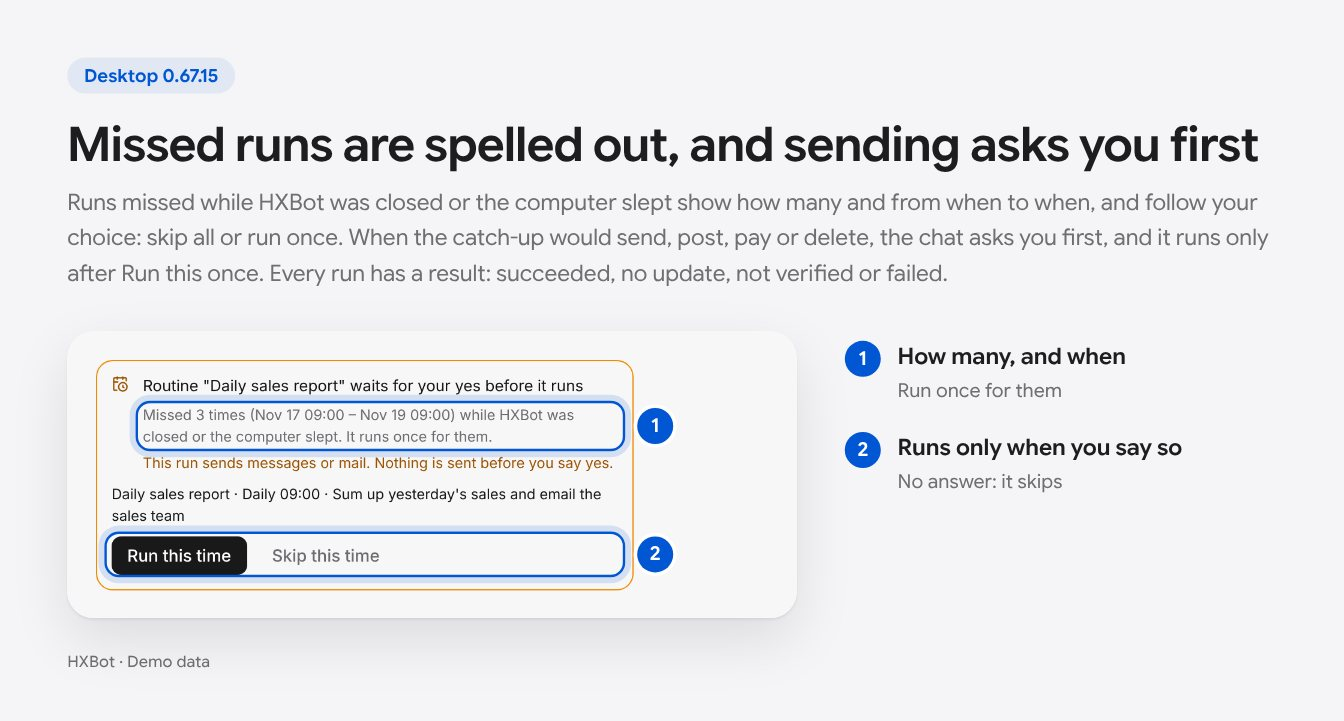
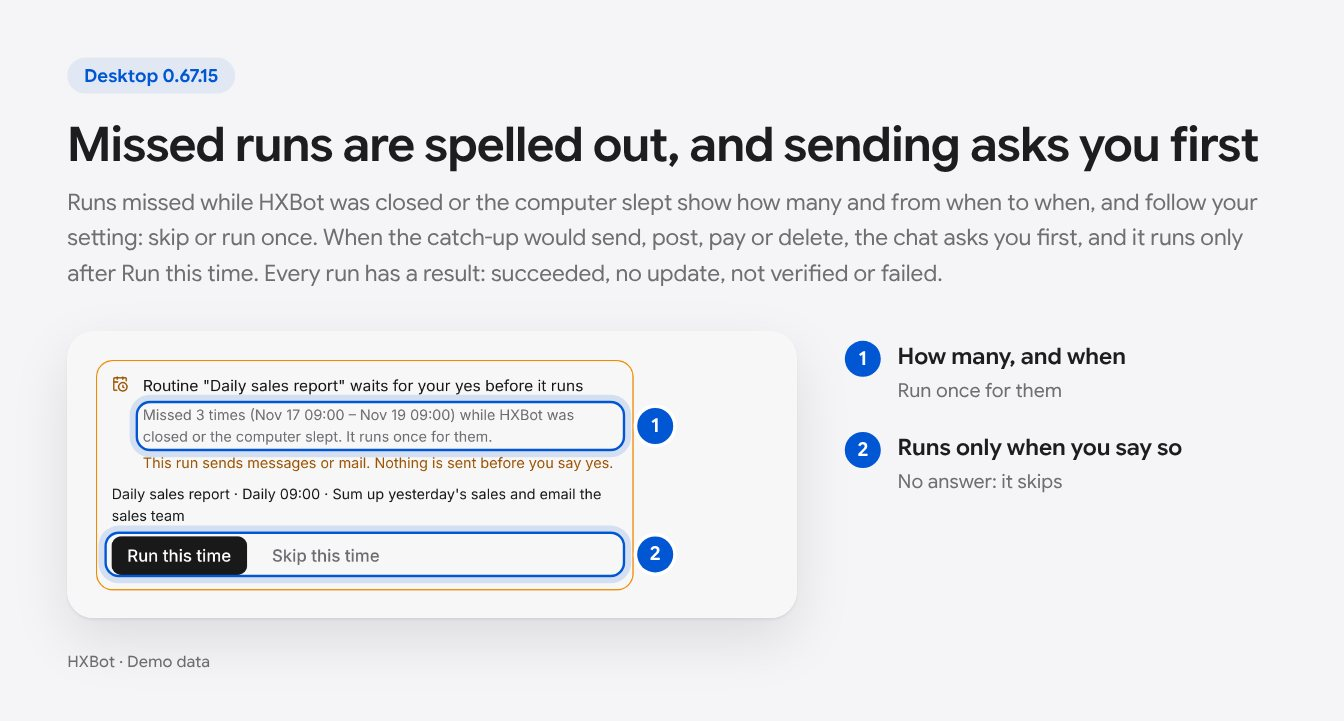
docs: routine confirm picture and what's new use the button names of the app
Claude-Session: https://claude.ai/code/session_01SSfegZhWxwREh3EkEPgvTa

Changed region(s): [[0.0312, 0.3051, 0.9375, 0.3967]]

diff --git a/hx/server/portal/pages/whats-new.en.html b/hx/server/portal/pages/whats-new.en.html
@@ -176,16 +176,16 @@
 <p>This page lists the new features and highlights of HXBot by version, newest first. Each version has all the features of the versions before it. The title of each part names the app that changed and its version number: the desktop app and the web app share one version number, and the mobile app has its own. After each highlight, the apps that have it are named. To use a new feature, update the app to that version: from desktop 0.67.13 on, HXBot downloads and installs a new version in the background also while you use it, then saves and restarts into it once the agents are idle, or after 10 minutes at most; there is nothing to click (0.67.10 to 0.67.12 install a version that they find as they open). The data in the screenshots is demo data.</p>
 <h2 id="desktop-0-67-15">Desktop 0.67.15 · Mobile 1.5.1: a start film, and more reliable routines and workflows<a class="anchor" href="#desktop-0-67-15" aria-hidden="true" tabindex="-1">#</a></h2>
 <p>November 20, 2026 · Desktop and web 0.67.15 · Mobile 1.5.1 (Android; no iOS update this time, it stays 1.5.0)</p>
-<aside class="note"><p class="note__t"><strong>Highlights</strong></p><ol><li><span class="tag tag--new">NEW</span> A start film: the giraffe comes with balloons and becomes the HXBot logo. It plays on the first start and the first start after each update, in the film for the window's shape, and never cuts the logo or the name. <span class="on">Desktop, web, Android</span></li><li>Routines have a time zone and show their next three runs (local time and UTC, with the daylight saving change); missed runs show how many and when, and follow your choice: skip all or run once. <span class="on">Desktop</span></li><li>A catch-up that sends, posts, pays or deletes asks you first; every run has a result: succeeded, no update, not verified or failed. <span class="on">Desktop</span></li><li>More capable workflows: app skill, Computer Use and team steps; save a turn of a chat as a workflow; a failed run continues from the failed step, and external actions already done are not done again. <span class="on">Desktop</span></li><li>A deleted agent no longer comes back, and it leaves the web client and phones at once. <span class="on">Desktop, web, mobile</span></li></ol></aside>
+<aside class="note"><p class="note__t"><strong>Highlights</strong></p><ol><li><span class="tag tag--new">NEW</span> A start film: the giraffe comes with balloons and becomes the HXBot logo. It plays on the first start and the first start after each update, in the film for the window's shape, and never cuts the logo or the name. <span class="on">Desktop, web, Android</span></li><li>Routines have a time zone and show their next three runs (local time and UTC, with the daylight saving change); missed runs show how many and when, and follow your setting: skip them or run once. <span class="on">Desktop</span></li><li>A catch-up that sends, posts, pays or deletes asks you first; every run has a result: succeeded, no update, not verified or failed. <span class="on">Desktop</span></li><li>More capable workflows: app skill, Computer Use and team steps; save a turn of a chat as a workflow; a failed run continues from the failed step, and external actions already done are not done again. <span class="on">Desktop</span></li><li>A deleted agent no longer comes back, and it leaves the web client and phones at once. <span class="on">Desktop, web, mobile</span></li></ol></aside>
 <h3 id="desktop-0-67-15-boot">The start film<a class="anchor" href="#desktop-0-67-15-boot" aria-hidden="true" tabindex="-1">#</a></h3>
 <figure class="shot"><a href="/hx-portal/whats-new/boot-film.en.jpg" target="_blank" rel="noopener"><img src="/hx-portal/whats-new/boot-film.en.jpg" alt="The start film opens on the giraffe and ends on the HXBot logo; turn on its sound in Settings › General › Appearance" width="1344" height="844" loading="lazy" decoding="async"></a></figure>
 <ul><li><strong>When it plays:</strong> the first time you open HXBot on a computer, and the first time after each update, “The giraffe and the balloons” plays (about 16 s), becomes the HXBot logo and fades into HXBot. Other starts show the logo for 0.6 s.</li><li><strong>The logo is never cut:</strong> the 16:9, 4:3 or 9:16 film fills the window; where the window cuts it, only white goes, never the logo or the name “HXBot”.</li><li><strong>Skip it:</strong> after 1 s, a click or any key goes in at once; a key in the first second does not skip it, and does not reach the screen behind it. On a phone, tap or press Android's back button.</li><li><strong>It stays out of the way:</strong> with reduced motion, a damaged film, or a film that has not started in 1 s, only the logo shows; routines due while it plays start on time. The sound is off; turn it on in Settings › General › Appearance (on Android, Settings › Appearance).</li><li><strong>The web client and bot.hxallai.com:</strong> a browser plays it at most once in 30 days (both pages share the record, which stays in this browser and is not sent), then it fades into the page; it is muted, and does not play with a data saver, 2G, reduced motion or in a background tab. It comes over the network, so its first frame shows while it loads, for 3 s at most; a slow film can be skipped after 2 s.</li></ul>
 <h3 id="desktop-0-67-15-routines">Routines: time zone, next three runs, missed runs spelled out<a class="anchor" href="#desktop-0-67-15-routines" aria-hidden="true" tabindex="-1">#</a></h3>
 <figure class="shot"><a href="/hx-portal/whats-new/routine-zone.en.jpg" target="_blank" rel="noopener"><img src="/hx-portal/whats-new/routine-zone.en.jpg" alt="A routine needs a time zone; below it, the next three runs, with the daylight saving offsets" width="1344" height="722" loading="lazy" decoding="async"></a></figure>
-<ul><li><strong>A time zone is required:</strong> a new routine needs a time zone, and the one you registered comes first; an agent that makes a routine asks you once too. Routines from before the update ask once to confirm their time zone, and run in their old one until then.</li><li><strong>The next three runs:</strong> the editor and the chat card show the next three runs in local time, UTC and offset. A time that a clock change skips runs at the first minute after the gap; a repeated time runs once.</li><li><strong>Missed runs:</strong> runs missed while HXBot was closed or the computer slept show in the list and the history: how many, from when to when, and what happened, by your choice: skip all or run once.</li><li><strong>Spread out:</strong> routines due in the same minute start a few seconds apart, in order. A trigger that comes while the last run still runs is recorded as skipped, with the reason; after a pause, the editor shows that no trigger is queued.</li></ul>
+<ul><li><strong>A time zone is required:</strong> a new routine needs a time zone, and the one you registered comes first; an agent that makes a routine asks you once too. Routines from before the update ask once to confirm their time zone, and run in their old one until then.</li><li><strong>The next three runs:</strong> the editor and the chat card show the next three runs in local time, UTC and offset. A time that a clock change skips runs at the first minute after the gap; a repeated time runs once.</li><li><strong>Missed runs:</strong> runs missed while HXBot was closed or the computer slept show in the list and the history: how many, from when to when, and what happened, by your setting for “If HXBot was closed at the scheduled time”: skip them or run once.</li><li><strong>Spread out:</strong> routines due in the same minute start a few seconds apart, in order. A trigger that comes while the last run still runs is recorded as skipped, with the reason; after a pause, the editor shows that no trigger is queued.</li></ul>
 <h3 id="desktop-0-67-15-confirm">Sending asks first, and every run has a result<a class="anchor" href="#desktop-0-67-15-confirm" aria-hidden="true" tabindex="-1">#</a></h3>
-<figure class="shot"><a href="/hx-portal/whats-new/routine-confirm.en.jpg" target="_blank" rel="noopener"><img src="/hx-portal/whats-new/routine-confirm.en.jpg" alt="A catch-up would send an email: it asks first, and runs only after “Run this once”" width="1344" height="721" loading="lazy" decoding="async"></a></figure>
-<ul><li><strong>It asks first:</strong> when a catch-up would send, post, pay or delete, the chat asks you; it runs only after Run this once, and Skip this time or no answer before the next run skips it. A routine whose instruction does such things (routines from before the update are marked by themselves) can ask before each run.</li><li><strong>Results:</strong> each run says succeeded, no update, not verified or failed. A result that is not verified (for example, a file it said it saved is not there) shows in the chat and as a notification; no update does not disturb you.</li></ul>
+<figure class="shot"><a href="/hx-portal/whats-new/routine-confirm.en.jpg" target="_blank" rel="noopener"><img src="/hx-portal/whats-new/routine-confirm.en.jpg" alt="A catch-up would send an email: it asks first, and runs only after “Run this time”" width="1344" height="721" loading="lazy" decoding="async"></a></figure>
+<ul><li><strong>It asks first:</strong> when a catch-up would send, post, pay or delete, the chat asks you; it runs only after Run this time, and Skip this time or no answer before the next run skips it. A routine whose instruction does such things (routines from before the update are marked by themselves) can ask before each run.</li><li><strong>Results:</strong> each run says succeeded, no update, not verified or failed. A result that is not verified (for example, a file it said it saved is not there) shows in the chat and as a notification; no update does not disturb you.</li></ul>
 <h3 id="desktop-0-67-15-workflows">Workflows<a class="anchor" href="#desktop-0-67-15-workflows" aria-hidden="true" tabindex="-1">#</a></h3>
 <ul><li><strong>Three new steps:</strong> app skill, Computer Use and team task. An agent step can use the automatic model, chosen by the work of that step.</li><li><strong>Save as a workflow:</strong> the Computer Use calls, app skills and team tasks of a turn become a workflow with Save as workflow; a routine can run a prompt, a workflow, an app skill or a team task.</li><li><strong>Continue from the failed step:</strong> external actions that are already done (sending, uploading and so on) are not done again; the conditions are checked again first. A step whose result is unknown after a restart runs again only when you choose Continue.</li><li><strong>Run limits:</strong> 10 loops, 100 steps and 600 s per loop; change them in the Workflows menu › Run limits. At a limit the run stops and says why.</li><li><strong>Teams learn your choices:</strong> Continue at the time reminder doubles that team's time, and Wrap up shortens it for the same kind of work; Computer Use learns how long to wait after you stop. Reset both in Settings › Computer Use. When the team judge's model passed the labeled set and the judge agreed with you 5 times in a row, you can let it decide such cases from the team card; the 3rd time for the same reason always asks you.</li></ul>
 <h3 id="desktop-0-67-15-fixes">Fixed<a class="anchor" href="#desktop-0-67-15-fixes" aria-hidden="true" tabindex="-1">#</a></h3>

diff --git a/hx/server/portal/pages/whats-new.html b/hx/server/portal/pages/whats-new.html
@@ -185,7 +185,7 @@
 <figure class="shot"><a href="/hx-portal/whats-new/routine-zone.zh.jpg" target="_blank" rel="noopener"><img src="/hx-portal/whats-new/routine-zone.zh.jpg" alt="定时任务要选时区，下面列出接下来三次，夏令时前后的偏移写明白" width="1344" height="635" loading="lazy" decoding="async"></a></figure>
 <ul><li><strong>时区必选：</strong>新建定时任务时必须选时区，你登记的时区排在第一个；助手帮你建时也会先问一次。升级前建的定时任务会请你确认一次时区，确认前照旧按原来的时区运行。</li><li><strong>接下来三次：</strong>编辑器和对话卡片里列出接下来三次运行：本地时间、UTC 和偏移。夏令时拨快跳过的时刻顺延到缺口后的第一分钟；拨慢重复的时刻只跑第一次。</li><li><strong>错过的写明白：</strong>HXBot 关着或电脑睡眠时错过的，列表和历史里写明错过几次、从几点到几点，按“到点时 HXBot 已关闭时”的设置跳过或补跑一次。</li><li><strong>错峰：</strong>同一分钟到点的几个定时任务错开几秒依次开始，顺序不变。上一轮还在跑时，这一轮记“已跳过”并写明原因；暂停后编辑器里写明“没有排队的触发”。</li></ul>
 <h3 id="desktop-0-67-15-confirm">要发送的先问你，每次运行都有结果<a class="anchor" href="#desktop-0-67-15-confirm" aria-hidden="true" tabindex="-1">#</a></h3>
-<figure class="shot"><a href="/hx-portal/whats-new/routine-confirm.zh.jpg" target="_blank" rel="noopener"><img src="/hx-portal/whats-new/routine-confirm.zh.jpg" alt="补跑一次会发送邮件：先问你，点“运行这一次”才运行" width="1344" height="706" loading="lazy" decoding="async"></a></figure>
+<figure class="shot"><a href="/hx-portal/whats-new/routine-confirm.zh.jpg" target="_blank" rel="noopener"><img src="/hx-portal/whats-new/routine-confirm.zh.jpg" alt="补跑一次会发送邮件：先问你，点“运行这一次”才运行" width="1344" height="670" loading="lazy" decoding="async"></a></figure>
 <ul><li><strong>先问你：</strong>补跑会发送、发布、付款或删除时，先在对话里问你，点“运行这一次”才做，“这次跳过”或到下次运行时间还没回答就跳过。指令里含这些动作的定时任务（升级前建的会自动标上），可以设成每次运行前都问。</li><li><strong>结果：</strong>每次运行写明成功、无更新、结果未核实或失败。结果未核实的（比如说保存了的文件找不到）在对话里写一行并通知你；无更新不打扰你。</li></ul>
 <h3 id="desktop-0-67-15-workflows">工作流<a class="anchor" href="#desktop-0-67-15-workflows" aria-hidden="true" tabindex="-1">#</a></h3>
 <ul><li><strong>三种新步骤：</strong>应用技能、Computer Use、团队任务。智能体步骤可以用“自动”模型，按这一步的工作内容选模型。</li><li><strong>存成工作流：</strong>对话里一轮用过的 Computer Use、应用技能和团队任务，点“存成工作流”就成了一个工作流；定时任务可以跑提示词、工作流、应用技能或团队任务。</li><li><strong>从失败的那一步继续：</strong>已经做完的外部动作（发送、上传等）不会再做一次；继续前重新检查条件。重启后结果未知的那一步，你点“继续”才再做。</li><li><strong>运行上限：</strong>循环 10 次、100 步、每轮循环 600 秒，在工作流菜单的“运行上限”里改；到了上限停下并写明原因。</li><li><strong>团队按你的选择调整：</strong>时间提醒时点“继续”，这个团队的时间加倍；点“收尾”，同类工作以后的时间缩短；电脑操控在你停手后等多久也会学。都可以在“设置 → Computer Use”恢复默认。裁判用的模型在标注集上过关、又和你连续 5 次判断一致后，可以在团队卡片上打开“以后这类情况按裁判的办”，同一原因第 3 次一定问你。</li></ul>

diff --git a/scripts/hx-highlight-shots.ts b/scripts/hx-highlight-shots.ts
@@ -136,8 +136,8 @@ export const SHOTS: Shot[] = [
       en: "Missed runs are spelled out, and sending asks you first",
     },
     lead: {
-      zh: "HXBot 关着或电脑睡眠时错过的，写明错过几次、从几点到几点，按你选的“全部跳过”或“补跑一次”处理。补跑会发送、发布、付款或删除时，先在对话里问你，你点“运行这一次”才做。每次运行都有结果：成功、无更新、结果未核实、失败。",
-      en: "Runs missed while HXBot was closed or the computer slept show how many and from when to when, and follow your choice: skip all or run once. When the catch-up would send, post, pay or delete, the chat asks you first, and it runs only after Run this once. Every run has a result: succeeded, no update, not verified or failed.",
+      zh: "HXBot 关着或电脑睡眠时错过的，写明错过几次、从几点到几点，按你的设置跳过或补跑一次。补跑会发送、发布、付款或删除时，先在对话里问你，你点“运行这一次”才做。每次运行都有结果：成功、无更新、结果未核实、失败。",
+      en: "Runs missed while HXBot was closed or the computer slept show how many and from when to when, and follow your setting: skip or run once. When the catch-up would send, post, pay or delete, the chat asks you first, and it runs only after Run this time. Every run has a result: succeeded, no update, not verified or failed.",
     },
     crop: ".hx-highlight-frame",
     width: 620,

diff --git a/hx/docs/site/whats-new.en.md b/hx/docs/site/whats-new.en.md
@@ -14,7 +14,7 @@ November 20, 2026 · Desktop and web 0.67.15 · Mobile 1.5.1 (Android; no iOS up
 
 > **Highlights**
 > 1. {NEW} A start film: the giraffe comes with balloons and becomes the HXBot logo. It plays on the first start and the first start after each update, in the film for the window's shape, and never cuts the logo or the name. {on:Desktop, web, Android}
-> 2. Routines have a time zone and show their next three runs (local time and UTC, with the daylight saving change); missed runs show how many and when, and follow your choice: skip all or run once. {on:Desktop}
+> 2. Routines have a time zone and show their next three runs (local time and UTC, with the daylight saving change); missed runs show how many and when, and follow your setting: skip them or run once. {on:Desktop}
 > 3. A catch-up that sends, posts, pays or deletes asks you first; every run has a result: succeeded, no update, not verified or failed. {on:Desktop}
 > 4. More capable workflows: app skill, Computer Use and team steps; save a turn of a chat as a workflow; a failed run continues from the failed step, and external actions already done are not done again. {on:Desktop}
 > 5. A deleted agent no longer comes back, and it leaves the web client and phones at once. {on:Desktop, web, mobile}
@@ -35,14 +35,14 @@ November 20, 2026 · Desktop and web 0.67.15 · Mobile 1.5.1 (Android; no iOS up
 
 - **A time zone is required:** a new routine needs a time zone, and the one you registered comes first; an agent that makes a routine asks you once too. Routines from before the update ask once to confirm their time zone, and run in their old one until then.
 - **The next three runs:** the editor and the chat card show the next three runs in local time, UTC and offset. A time that a clock change skips runs at the first minute after the gap; a repeated time runs once.
-- **Missed runs:** runs missed while HXBot was closed or the computer slept show in the list and the history: how many, from when to when, and what happened, by your choice: skip all or run once.
+- **Missed runs:** runs missed while HXBot was closed or the computer slept show in the list and the history: how many, from when to when, and what happened, by your setting for “If HXBot was closed at the scheduled time”: skip them or run once.
 - **Spread out:** routines due in the same minute start a few seconds apart, in order. A trigger that comes while the last run still runs is recorded as skipped, with the reason; after a pause, the editor shows that no trigger is queued.
 
 ### Sending asks first, and every run has a result {#desktop-0-67-15-confirm}
 
-![A catch-up would send an email: it asks first, and runs only after “Run this once”](/hx-portal/whats-new/routine-confirm.en.jpg)
+![A catch-up would send an email: it asks first, and runs only after “Run this time”](/hx-portal/whats-new/routine-confirm.en.jpg)
 
-- **It asks first:** when a catch-up would send, post, pay or delete, the chat asks you; it runs only after Run this once, and Skip this time or no answer before the next run skips it. A routine whose instruction does such things (routines from before the update are marked by themselves) can ask before each run.
+- **It asks first:** when a catch-up would send, post, pay or delete, the chat asks you; it runs only after Run this time, and Skip this time or no answer before the next run skips it. A routine whose instruction does such things (routines from before the update are marked by themselves) can ask before each run.
 - **Results:** each run says succeeded, no update, not verified or failed. A result that is not verified (for example, a file it said it saved is not there) shows in the chat and as a notification; no update does not disturb you.
 
 ### Workflows {#desktop-0-67-15-workflows}
